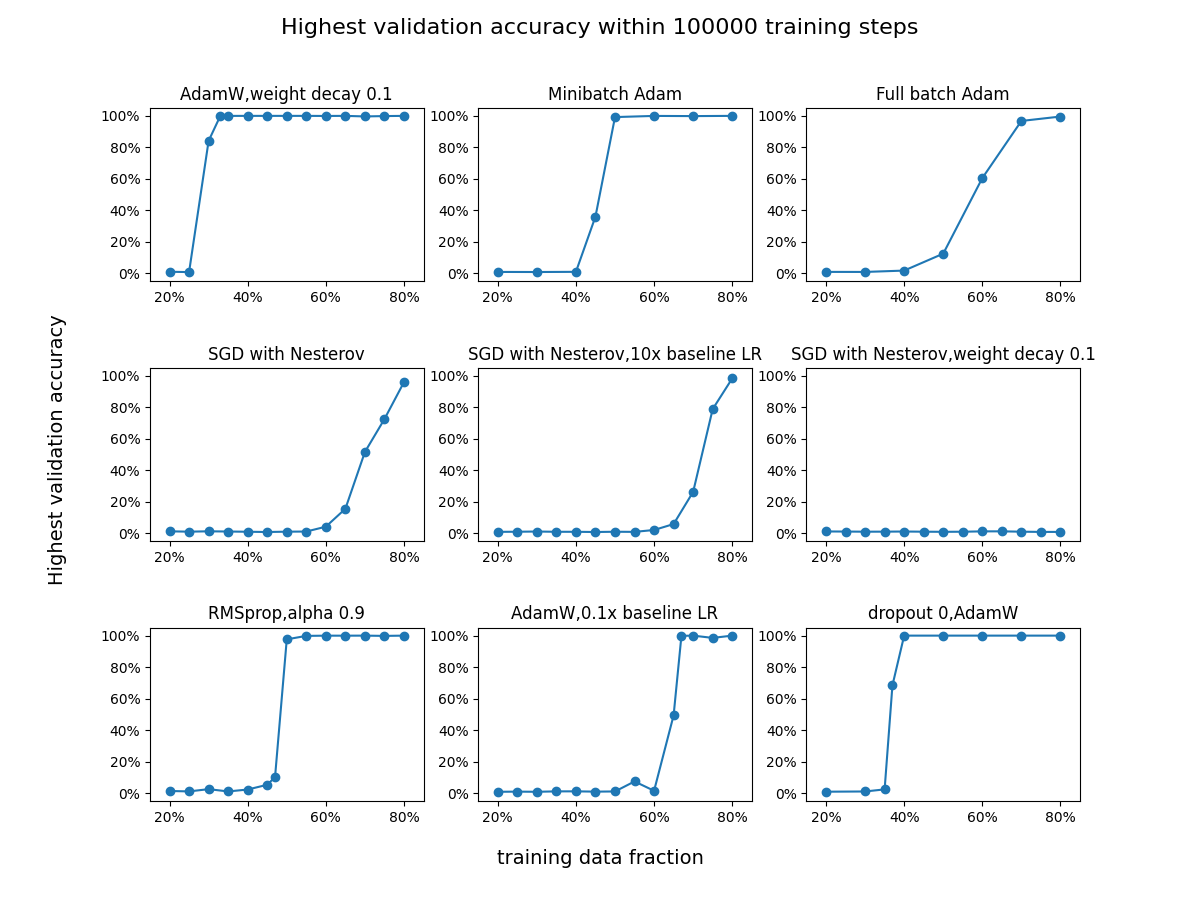
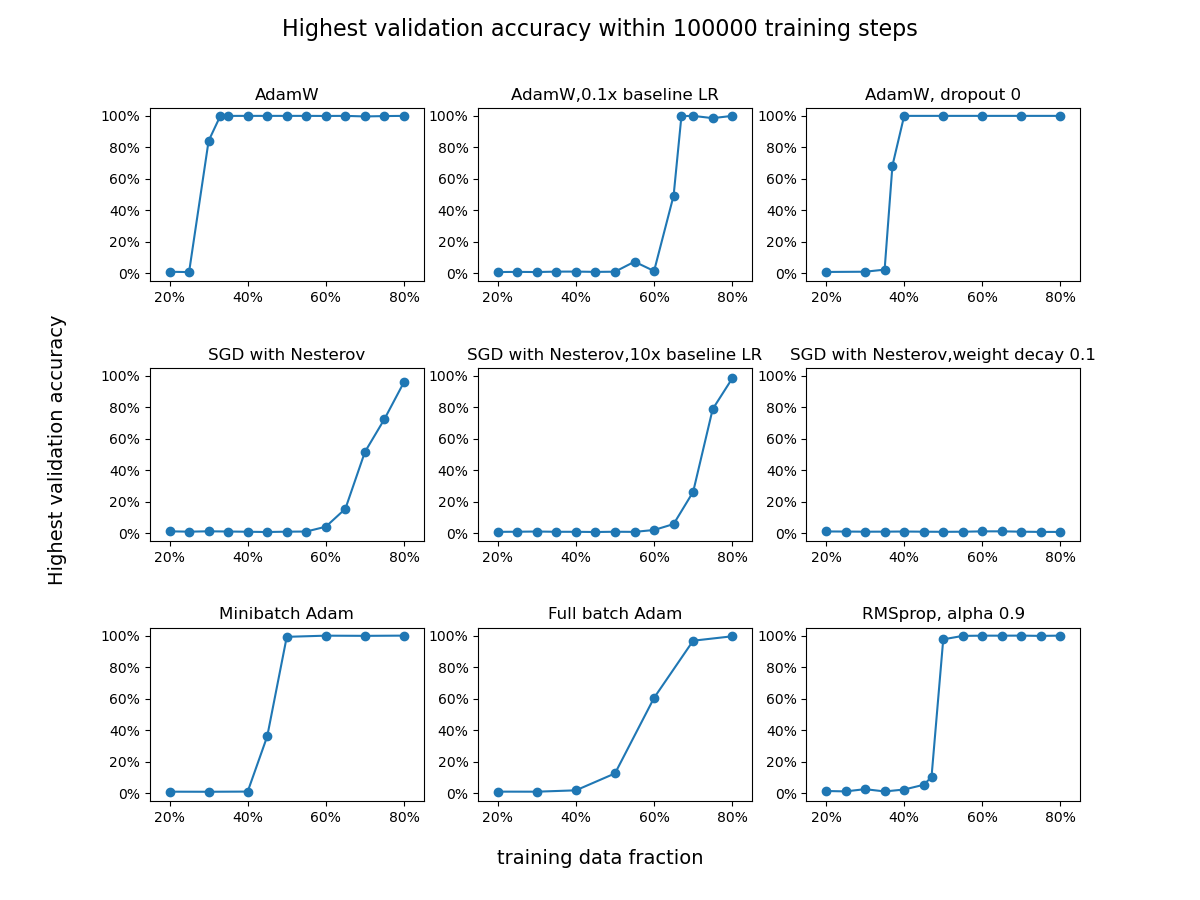
minor changes

diff --git a/scripts/draw_alpha_acc.py b/scripts/draw_alpha_acc.py
@@ -65,26 +65,26 @@ def load_all_metrics(run_dir):
 
 input_dirs = [
     "./lightning_logs/1AdamW_lr0.001_dropout0.1", 
-    "./lightning_logs/2Adam",
-    "./lightning_logs/3Adam+full_batch",
+    "./lightning_logs/8AdamW_lr0.0001_dropout0.1",
+    "./lightning_logs/9AdamW_lr0.001_dropout0",
     "./lightning_logs/4SGD_lr0.001",
     "./lightning_logs/5SGD_lr0.01",
     "./lightning_logs/6SGD_lr0.001+weight_decay",
-    "./lightning_logs/7RMSprop",
-    "./lightning_logs/8AdamW_lr0.0001_dropout0.1",
-    "./lightning_logs/9AdamW_lr0.001_dropout0"
+    "./lightning_logs/2Adam",
+    "./lightning_logs/3Adam+full_batch",
+    "./lightning_logs/7RMSprop"
     ]
 
 titles = [
-    "AdamW,weight decay 0.1",
-    "Minibatch Adam",
-    "Full batch Adam",
+    "AdamW",
+    "AdamW,0.1x baseline LR",
+    "AdamW, dropout 0",
     "SGD with Nesterov",
     "SGD with Nesterov,10x baseline LR",
     "SGD with Nesterov,weight decay 0.1",
-    "RMSprop,alpha 0.9",
-    "AdamW,0.1x baseline LR",
-    "dropout 0,AdamW"
+    "Minibatch Adam",
+    "Full batch Adam",
+    "RMSprop, alpha 0.9"
     ]
 
 output_dir = "./output/different_settings"
